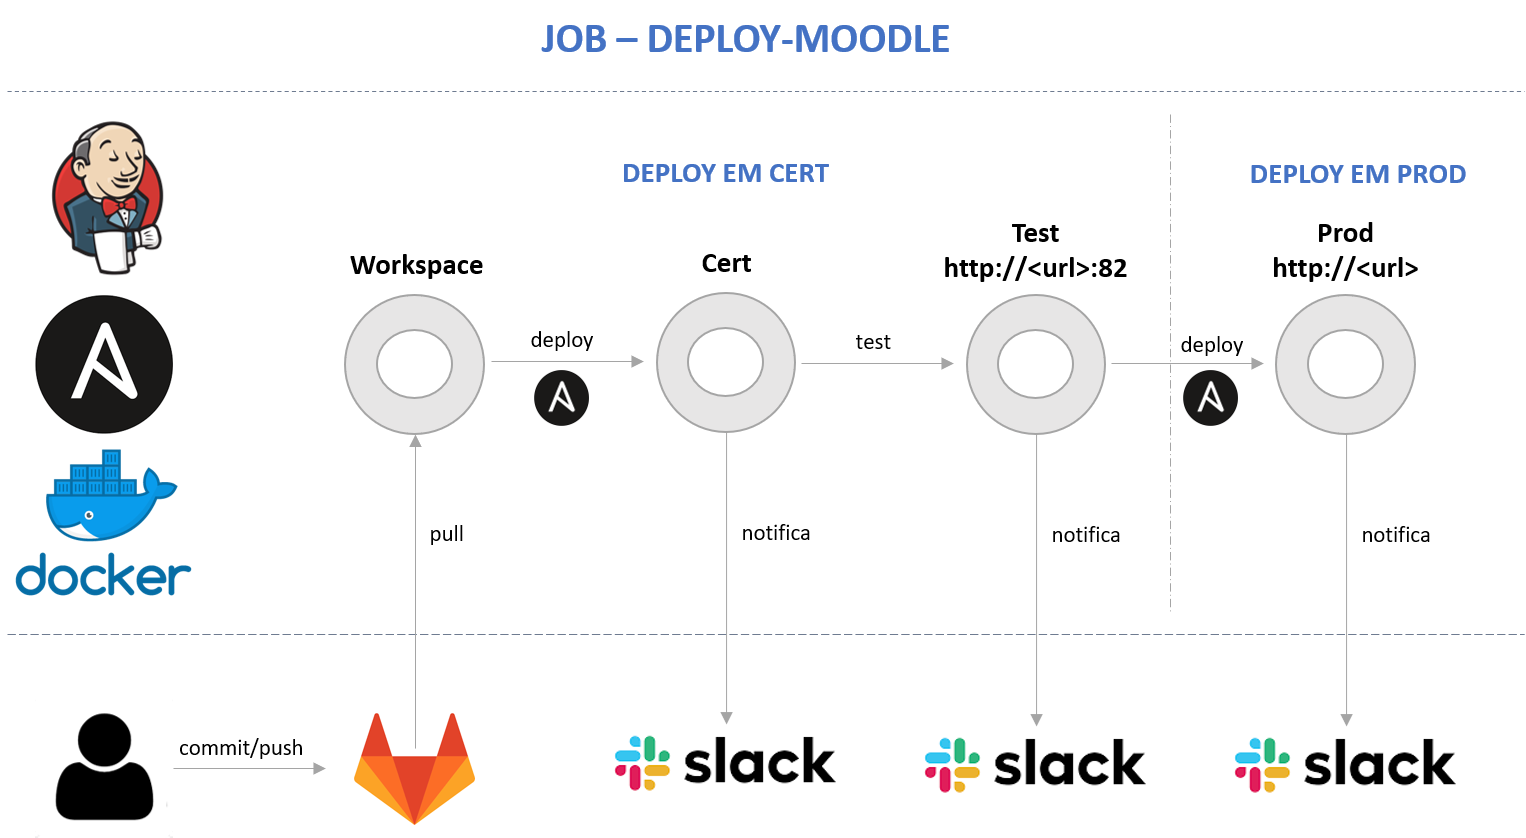
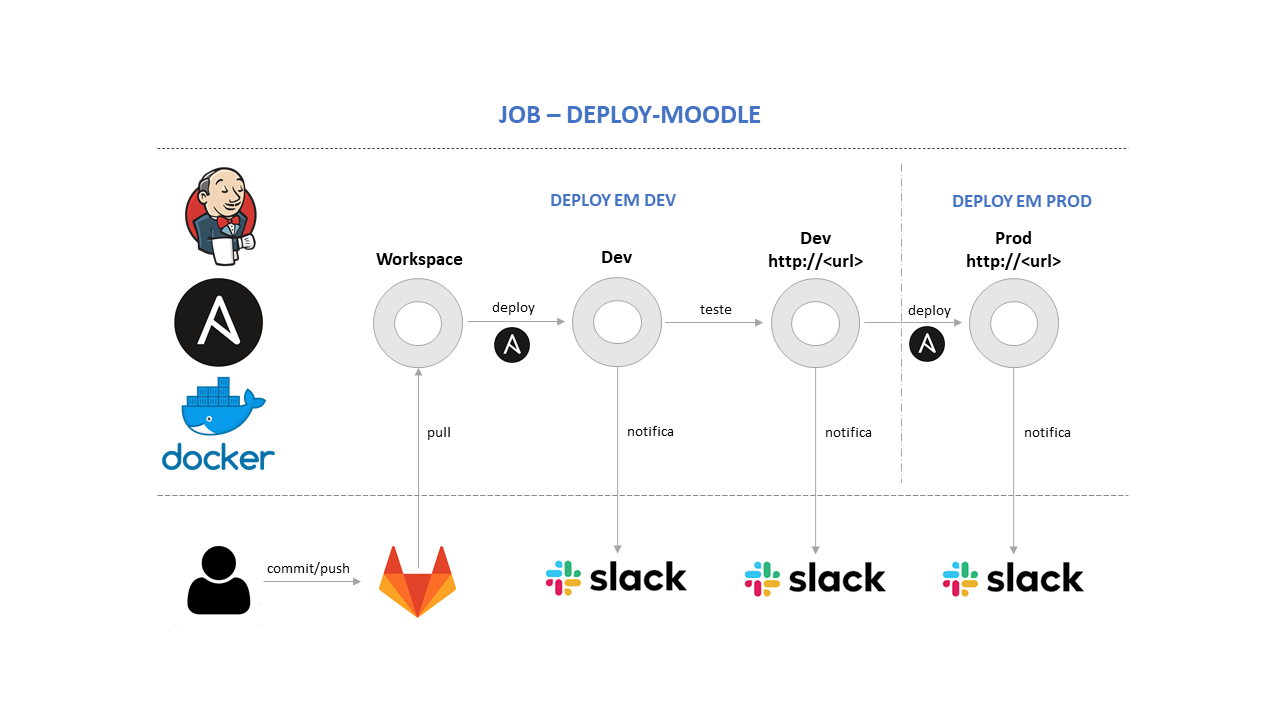
Ajustando README

diff --git a/README.md b/README.md
@@ -1,76 +1,271 @@
-MOODLE - AUTOMATION
-===================
+Moodle
+======
 
-Esse projeto integra ferramentas DevOps para garantir o deploy do ambiente e aplicação Moodle.
+O Moodle é um popular software open source de ensino (LMS) para a entrega de cursos digitais e programas de estudo.
 
-Essas são as ferramentas utilizadas e suas funções:
+Para mais informações visite o site oficial: https://moodle.org/
 
-FERRAMENTA | FUNÇÃO
------------|-------
-**Rundeck**    | Responsável pelo deploy do ambiente (cert/prod), acionando a role Ansible **"docker-moodle"** no servidor de automação.
-**Ansible**    | Responsável em aplicar as configurações em nosso servidor de aplicação, utilizando o Docker para subir os containers de cada ambiente.
-**Docker**     | Responsável pelo gerenciamento dos containers do servidor de aplicação.  
-**Puppet**     | Responsável em instalar e garantir o Docker no servidor de aplicação.  
-**Jenkins**    | Responsável pelo deploy da aplicação (CI/CD), acionando a role Ansible **"deploy-moodle"** no servidor de automação.
-**Vagrant**    | Responsável pelo deploy do ambiente (dev), acionando a role Ansible **"docker-moodle"** no computador do desenvolvedor.
+Docker Compose
+--------------
 
-DEPLOY DO AMBIENTE
-------------------
+```shell
+$ curl -sSL https://raw.githubusercontent.com/flaviomrjr/moodle/master/docker-compose.yml > docker-compose.yml
+$ docker-compose up -d
+```
 
-Para esse projeto, precisamos de um servidor de automação e outro servidor de aplicação.
+Prerequisitos
+-------------
 
-* **REQUISITOS DO SERVIDOR - AUTOMAÇÃO**
-  - **Rundeck**
-    - Link para instalação: https://docs.rundeck.com/docs/administration/install/
-    - Criar o projeto MOODLE;
-    - Importar os jobs "DEPLOY/BACKUP/RESTORE/DESTROY" dentro da pasta rundeck do repositório;    
-  - **Ansible**
-    - Link para instalação: https://docs.ansible.com/ansible/latest/installation_guide/intro_installation.html
-    - Chave SSH para acesso ao servidor de aplicação
-      ```shell
-      ssh-keygen
-      ssh-copy-id user@server_aplicacao_ip
-      ```
-  - **Puppet** - _OPCIONAL_
-    - Link para instalação: https://puppet.com/docs/puppetserver/6.0/install_from_packages.html
-    - Criar um modulo docker, utilizando o manifest do repositório **init.pp**
-    - _**OBS**_: Caso você não configure o Puppet, deve realizar a instalação do docker no servidor de aplicação.
-  - **Jenkins**
-    - Link para instalação: https://jenkins.io/doc/book/installing/
-    - Plugins: Gitlab ou Github, Slack, Ansible;
-    - Criação do job "deploy-moodle"
-      - Configurar o "Build Trigger" a partir do push feito para o repositório do Gitlab ou GitHub;
-      - Configurar o Jenkinsfile a partir do repositório;
-    - Configurar a integração do plugin Slack com o canal que receberá as notificações da pipeline.
-  - **Gitlab** - _OPCIONAL_
-    - Link para instalação: https://docs.gitlab.com/ee/install/
-    - Importar o repositório moodle
-    - Criar webhook para integração do Gitlab ao Job de (CI/CD) criado no Jenkins.
-      - Você irá encontrar a URL para a criação do webhook no proprio Job do Jenkins em => Build Triggers => Build when a change is pushed to GitLab;
-    - _**OBS**_: Seu repositório pode estar em outro lugar como o GitHub, porém a integração via webhook deve ser criada independente do repositório.
+Para executar essa aplicação, você precisa do Docker Engine e Docker Compose caso opte em executar via docker-compose.
 
+Como utilizar essa imagem
+=========================
+Executando o Moodle com um container de Banco de Dados
+-------------------------------------------------------
+Executando o Moodle com um servidor de banco de dados e a forma recomendada.
+Você pode utilizar o docker-compose, ansible ou executar manualmente.
 
-* **CONFIGURANDO O SLACK**
-  - Instale o plugin do Jenkins em seu Slack;
-  - Siga os passos de integração entre o Slack e Jenkins utilizando o próprio manual disponibilizado no Slack.
+**Executando a aplicação com Docker Compose**
 
+A pagina principal deste repositório possui um `docker-compose.yml` funcional.
+Execute a aplicação executando os comandos a baixo:
 
-* **REQUISITOS DO SERVIDOR - APLICACÃO**
-  - Docker - _OPTANDO EM NÃO  UTILIZAR O PUPPET_
-    - Link para instalação: https://docs.docker.com/install/
+```shell
+$ curl -sSL https://raw.githubusercontent.com/flaviomrjr/moodle/master/docker-compose.yml > docker-compose.yml
+$ docker-compose up -d
+```
 
-**PROVISIONANDO O AMBIENTE**
+**Executando a aplicação via Ansible**
 
-- **Acesse o Rundeck**
-  - Execute o Job "DEPLOY" informando os parâmetros necessários para os ambientes de (cert/prod);
-  - _**OBS**_: O Job "DEPLOY" deve ser executado por ambiente.
+A pagina principal deste repositório possui a role `docker-moodle` funcional.
+Execute a aplicação executando os comandos a baixo:
 
-DEPLOY DA APLICAÇÃO
--------------------
+```shell
+$ ansible-playbook /etc/ansible/playbooks/docker-moodle.yml -e "host=dockerhost env=dev phpmemory=1024 user=admin pass=MoodleAdmin mail=moodle@yourdomain.com url=moodle.yourdomain.com dbport=3306" -t deploy
+```
 
-_**CERT/PROD**_ - SERVIDOR DE APLICACAO
+**Executando a aplicação manualmente**
 
-- **PONTOS DE ATENÇÃO**
+Se você quiser executar a aplicação manualmente em vez de utilizar o docker-compose,
+esses são os passos basicos que você deve executar:
+
+1. Crie uma rede para a aplicação e banco de dados:
+
+```shell
+$ docker network create moodle
+```
+
+2. Crie um volume persistente para o MariaDB e crie o container do MariaDB:
+
+```shell
+$ docker volume create --name mysql_data
+$ docker run -dti --name mariadb \
+ -e MYSQL_ROOT_PASSWORD=moodle \
+ -e MYSQL_USER=moodle \
+ -e MYSQL_PASSWORD=moodle \
+ -e MYSQL_DATABASE=moodle_database \
+ --net moodle \
+ --volume mysql_data:/var/lib/mysql \
+ mariadb --character-set-server=utf8mb4 --collation-server=utf8mb4_unicode_ci
+```
+
+3. Crie dois volumes persistentes para o Moodle e cria o container do Moodle:
+
+```shell
+$ docker volume create --name moodle_app
+$ docker volume create --name moodle_data
+$ docker run -dti --name mariadb \
+ -e PHP_MOMORY=1024 \
+ -e MOODLE_URL: http://moodle.yourdomain.com \
+ -e MOODLE_MARIADB_HOST=moodle \
+ -e MOODLE_MARIADB_BD=moodle_database \
+ -e MOODLE_MARIADB_USER=moodle \
+ -e MOODLE_MARIADB_PASS=moodle \
+ -e MOODLE_USER=admin \
+ -e MOODLE_USER_PASS=MoodleAdmin \
+ -e MOODLE_USER_EMAIL=moodle@yourdomain.com \
+ -e MOODLE_SKIP_INSTALL=no \
+ --net moodle \
+ --volume moodle_app:/var/www/html/moodle \
+ --volume moodle_data:/var/www/moodledata \
+ moodle
+```
+
+**Montando uma pasta persistente no host usando docker-Compose**
+
+Isso requer uma pequena mudança no `docker-compose.yml` presente nesse repositório:
+
+```shell
+services:
+  mariadb:
+  ...
+    volumes:
+      - '/path/to/mariadb-persistence:/var/lib/mysql'
+  ...
+  moodle:
+  ...
+    depends_on:
+      - mariadb
+  ...
+```
+
+**Montando pastas persistentes manualmente**
+
+Nesse caso você precisa especificar os diretórios que serão montados no comando `run`. O processo é o mesmo igual o apresentado anteriormente.
+
+1. Se você não fez isso anteriormente, crie uma rede para a aplicação e o banco de dados:
+
+```shell
+$ docker network create moodle
+```
+
+2. Inicie o MariaDB na rede criada:
+
+```shell
+$ docker volume create --name mysql_data
+$ docker run -dti --name mariadb \
+ -e MYSQL_ROOT_PASSWORD=moodle \
+ -e MYSQL_USER=moodle \
+ -e MYSQL_PASSWORD=moodle \
+ -e MYSQL_DATABASE=moodle_database \
+ --net moodle \
+ --volume /path/to/mariadb-persistence:/var/lib/mysql \
+ mariadb --character-set-server=utf8mb4 --collation-server=utf8mb4_unicode_ci
+```
+
+3. Execute o container do Moodle:
+
+```shell
+$ docker volume create --name moodle_app
+$ docker volume create --name moodle_data
+$ docker run -dti --name mariadb \
+ -e PHP_MOMORY=1024 \
+ -e MOODLE_URL: http://moodle.yourdomain.com \
+ -e MOODLE_MARIADB_HOST=moodle \
+ -e MOODLE_MARIADB_BD=moodle_database \
+ -e MOODLE_MARIADB_USER=moodle \
+ -e MOODLE_MARIADB_PASS=moodle \
+ -e MOODLE_USER=admin \
+ -e MOODLE_USER_PASS=MoodleAdmin \
+ -e MOODLE_USER_EMAIL=moodle@yourdomain.com \
+ -e MOODLE_SKIP_INSTALL=no \
+ --net moodle \
+ --volume moodle_app:/var/www/html/moodle \
+ --volume moodle_data:/var/www/moodledata \
+ moodle
+```
+
+Configuração
+============
+
+Variáveis de ambiente
+---------------------
+
+Quando você inicia a imagem do Moodle, você pode ajustar a configuração da instancia passando uma ou mais variáveis de ambiente no arquivo `docker-compose.yml` ou via `docker run` via linha de comando.
+
+**Configuração do Usuário, Site e Database:**
+
+`MOODLE_USER:` Usuário Moodle. Padrão: **admin**
+`MOODLE_USER_PASS:` Senha do usuário Moodle. Padrão: **MoodleAdmin**
+`MOODLE_USER_MAIL:` E-mail do usuário Moodle. Padrão: **moodle@yourdomain.com**
+`MOODLE_URL:` URL de acesso ao Moodle. Padrão: **http://moodle.yourdomain.com**
+`MOODLE_SKIP_INSTALL:` Não executa a instalação inicial do Moodle. Padrão: **no**
+`MOODLE_MARIADB_HOST:` Define o servidor de banco de dados. Padrão: **mariadb**
+`MOODLE_MARIADB_BD:` Define o banco de dados. Padrão: **moodle**
+`MOODLE_MARIADB_USER:` Define o usuário de acesso ao banco de dados. Padrão: **moodle**
+`MOODLE_MARIADB_PASS:` Define a senha do usuário de acesso ao banco de dados. Padrão: **moodle**
+
+**Configuração do PHP:**
+
+`PHP_MEMORY:` Define a quantidade de memoria que será utilizada pelo PHP. Padrão: **512**
+
+**Configurações do Banco de Dados:**
+
+`MYSQL_ROOT_PASSWORD:` Define a senha do usuário root do mariadb. Padrão: **moodle**
+`MYSQL_USER:` Define o usuário do banco de dados. Padrão: **moodle**
+`MYSQL_PASSWORD:` Define a senha do usuário do banco de dados. Padrão: **moodle**
+`MYSQL_DATABASE:` Define o nome do banco de dados. Padrão: **moodle**
+
+Para mais variáveis de ambiente, consulto o repositório oficial do Mariadb: https://hub.docker.com/_/mariadb  
+
+Instalando novos pacotes de idiomas
+-----------------------------------
+
+Por padrão, esse container é instalado em Inglês. Mesmo assim, outro pacotes podem ser adicionados utilizando a inteface de Administração. Como requerimento, para um novo idioma funcionar completamente, o arquivo locale do sistema deve ser atualizado com o idioma desejado. Os idiomas `Português Brasil` e `Espanhol Espanha` já foram configurado. Para adicionar novos locales, você deve estender a imagem adicionando novos locales:
+
+```shell
+FROM centos/httpd
+RUN localedef -i en_US -f UTF-8 en_US.UTF-8
+```
+
+O idioma a cima já está configurado nessa imagem. Você deve alterar o idioma correspondendo com seu pacote de idioma recém instalado.
+
+Trabalhando com Proxy SSL
+-------------------------
+
+Por padrão o Moodle não é instalado no protocolo HTTPS utilizando certificado SSL. Caso você queira utilizar o Moodle sendo acessado por um Proxy SSL, você precisa alterar o arquivo `config.php` localizado em `/var/www/html/moodle`
+
+- Edite a URL para HTTPS:
+
+```shell
+$CFG->wwwroot   = 'https://moodle.yourdomain.com';
+```
+
+- Adiciona a opção ´proxyssl´ em baixo da URL:
+
+```shell
+$CFG->wwwroot   = 'https://moodle.yourdomain.com';
+$CFG->proxyssl  = true;
+```
+
+Adicionando um VirtualHost customizado
+--------------------------------------
+
+Por padrão, o VirtualHost está configurado para aceitar todos os domínios com a opção `ServerAlias *`. Caso queira adcionar um novo VirtualHost, insira o mesmo em: `/etc/httpd/conf.d`
+
+ANSIBLE
+=======
+
+Esse projeto possui a role `docker-moodle` com tasks configuradas para fazer a instalação dos requisitos do servidor de aplicação, deploy, backup, restore, update e clone do container Moodle e Banco de dados.
+
+Instalando os requisitos
+------------------------
+
+Você deve executar a playbook `docker-moodle.yml` informando a tag `prereq`:
+
+```shell
+$ git clone https://github.com/flaviomrjr/devops.git
+
+$ cd devops
+
+$ ansible-playbook docker-moodle.yml -e "host=yourhost" -t prereq
+```
+
+Feito isso, realize a instalação do Docker manualmente ou utilize o Manifest Puppet desse repositorio `init.pp`, para instalação automatizada do Docker.
+
+Deploy dos containers Moodle e MariaDB
+----------------------------------------------
+
+Realizado a instalação dos requisitos, seu ambiente está pronto para receber os containers do Moodle e MariaDB. Para realizar o deploy via ansible, execute a playbook `docker-moodle.yml` informando a tag `deploy`:
+
+```shell
+$ ansible-playbook docker-moodle.yml -e "host=yourhost env=moodle phpmemory=1024 user=admin pass=MoodleAdmin mail=moodle@yourdomain.com url=moodle.yourdomain.com dbport=3306" -t deploy
+```
+
+Depois de executado a playbook, aguarde o processo de instalação inicial do Moodle. Para ver os logs do container e acompanhar a instalação execute:
+
+```shell
+$ docker logs -f yourcontainer
+```
+
+CI/CD
+=====
+
+Esse repositorio possui uma pipeline em `Jenkinsfile`, com o objetivo de automatizar os deploys feitos na aplicação Moodle pela equipe de desenvolvimento.
+
+Siga os passos a seguir, para montar seu ambiente de CI/CD.
+
+**PONTOS DE ATENÇÃO**
   - Altere seu Jenkinsfile, inserindo os parâmetros do seu ambiente, por exemplo:
     - URLs
     - Portas
@@ -80,20 +275,30 @@ _**CERT/PROD**_ - SERVIDOR DE APLICACAO
 
 **FAZENDO O DEPLOY DA APLICAÇÃO**
 
-- **Commit/Push**
+**Commit/Push**
   - Ao realizar o commit em seu repositório local e executar o push para o Gitlab/GitHub, automaticamente seu Job será acionado.
-  - Ao terminar o processo de deploy em **cert**, você irá receber um link em seu canal no Slack para aprovar ou  não o deploy em produção.
-  - _**OBS**_: A pipeline está configurada para aguardar até 10 minutos no processo de aprovação.
+  - Ao terminar o processo de deploy em **dev**, você irá receber um link em seu canal no Slack para aprovar ou não o deploy em cert/produção.
+  - _**OBS**_: A pipeline está configurada para aguardar até 30 minutos no processo de aprovação.
 
+**PIPELINE**
 
-_**DEV**_ - PERSONAL COMPUTER  
+ ![IMAGEM GIT](https://github.com/flaviomrjr/moodle/blob/master/pipeline-moodle.png?raw=true)
 
-- **REQUISITOS - ESTAÇÃO DE TRABALHO**
+ Essa imagem exibe a pipeline com o processo de deploy em Dev e depois em Produção. O Jenkinsfile do repositório está configurado para fazer deploy em Dev, Cert e Prod. Caso queira remover Cert, remova os passos de Cert no Jenkinsfile.
+
+Vagrant
+=======
+
+O Vagrant é uma ferramenta desenvolvida pela Hashcorp com o objetivo de automatizar a criação de um ambiente de teste.
+
+Caso você queira criar um ambiente de teste localmente em seu computador, esse repositório possuiu o arquivo `Vagrantfile` responsável pelo provisionamento do ambiente local. Siga os passos a seguir para criar o ambiente.
+
+**REQUISITOS - ESTAÇÃO DE TRABALHO**
   - Vagrant
     - Link para instalação: https://www.vagrantup.com/docs/installation/
 
 
-- **PONTOS DE ATENÇÃO**
+**PONTOS DE ATENÇÃO**
   - Altere seu Vagrantfile, inserindo os parâmetros do seu ambiente, por exemplo:
     - Memória
     - CPU
@@ -103,16 +308,10 @@ _**DEV**_ - PERSONAL COMPUTER
  - Acesse a pasta do repositório;
  - Inicie o provisionando do ambiente com o comando:
   ```shell
-  vagrant up
+  $ vagrant up
   ```
  - Acessando o servidor:
  ```shell
- vagrant ssh moodle
+ $ vagrant ssh moodle
  ```
-
-PIPLINE
-=======
-
- ![IMAGEM GIT](https://github.com/flaviomrjr/moodle/blob/master/pipeline-moodle.png?raw=true)
-
  _**BY FLAVIO ROCHA - flavio.rocha16@gmail.com**_
